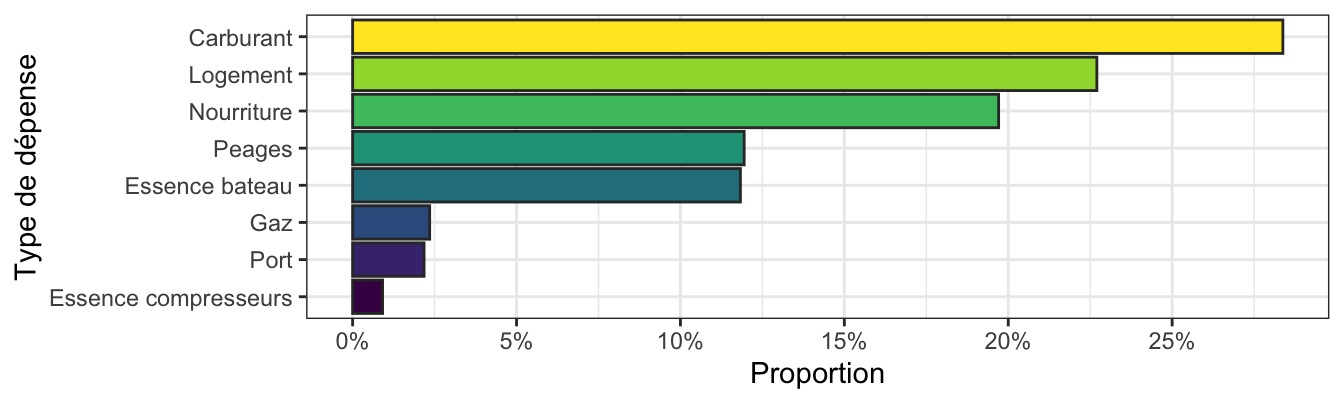
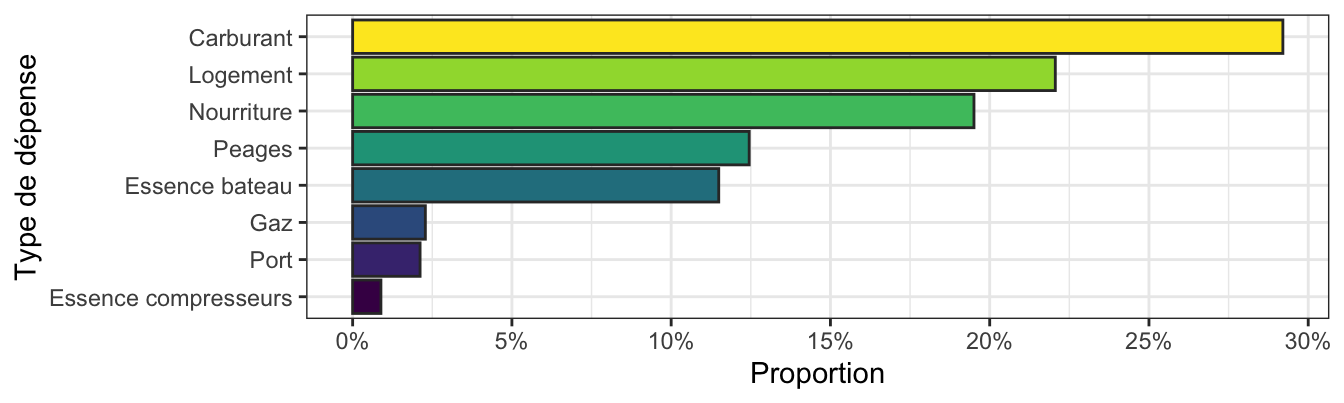
Corrections erreurs et oublis

diff --git a/docs/LaLonde2025.html b/docs/LaLonde2025.html
@@ -707,11 +707,11 @@ Table&nbsp;4: Dépenses hors plongées engagées par les participants à la sort
 <td style="text-align: right;">Benoît</td>
 <td style="text-align: right;">0€</td>
 <td style="text-align: right;">160.19€</td>
-<td style="text-align: right;">0.00€</td>
-<td style="text-align: right;">40.70€</td>
+<td style="text-align: right;">78.59€</td>
+<td style="text-align: right;">81.40€</td>
 <td style="text-align: right;">0€</td>
 <td style="text-align: right;">0€</td>
-<td style="text-align: right;">200.89€</td>
+<td style="text-align: right;">320.18€</td>
 </tr>
 <tr class="odd">
 <td style="text-align: right;">Calude</td>
@@ -736,12 +736,12 @@ Table&nbsp;4: Dépenses hors plongées engagées par les participants à la sort
 <tr class="odd">
 <td style="text-align: right;">Jérôme</td>
 <td style="text-align: right;">450€</td>
-<td style="text-align: right;">495.77€</td>
+<td style="text-align: right;">513.06€</td>
 <td style="text-align: right;">54.25€</td>
 <td style="text-align: right;">0.00€</td>
 <td style="text-align: right;">0€</td>
 <td style="text-align: right;">0€</td>
-<td style="text-align: right;">1,000.02€</td>
+<td style="text-align: right;">1,017.31€</td>
 </tr>
 <tr class="even">
 <td style="text-align: right;">Pierre</td>
@@ -786,12 +786,12 @@ Table&nbsp;4: Dépenses hors plongées engagées par les participants à la sort
 <tr class="even">
 <td style="text-align: right; font-weight: bold;">Total</td>
 <td style="text-align: right; font-weight: bold;">1,063€</td>
-<td style="text-align: right; font-weight: bold;">922.65€</td>
-<td style="text-align: right; font-weight: bold;">1,328.67€</td>
-<td style="text-align: right; font-weight: bold;">559.20€</td>
+<td style="text-align: right; font-weight: bold;">939.94€</td>
+<td style="text-align: right; font-weight: bold;">1,407.26€</td>
+<td style="text-align: right; font-weight: bold;">599.90€</td>
 <td style="text-align: right; font-weight: bold;">0€</td>
 <td style="text-align: right; font-weight: bold;">0€</td>
-<td style="text-align: right; font-weight: bold;">3,873.52€</td>
+<td style="text-align: right; font-weight: bold;">4,010.10€</td>
 </tr>
 </tbody>
 </table>
@@ -880,9 +880,9 @@ Table&nbsp;6: Coûts unitaires par personne
 <tbody>
 <tr class="odd">
 <td style="text-align: right;">15.19€</td>
-<td style="text-align: right;">4.39€</td>
-<td style="text-align: right;">132.87€</td>
-<td style="text-align: right;">55.92€</td>
+<td style="text-align: right;">4.48€</td>
+<td style="text-align: right;">140.73€</td>
+<td style="text-align: right;">59.99€</td>
 </tr>
 </tbody>
 </table>
@@ -947,51 +947,51 @@ Table&nbsp;7: Bilan des coûts par plongeur et par poste
 </tr>
 <tr class="odd">
 <td style="text-align: right;">Nourriture</td>
-<td style="text-align: right;">92.26€</td>
-<td style="text-align: right;">92.26€</td>
-<td style="text-align: right;">92.26€</td>
-<td style="text-align: right;">92.26€</td>
-<td style="text-align: right;">184.53€</td>
-<td style="text-align: right;">92.26€</td>
-<td style="text-align: right;">92.26€</td>
-<td style="text-align: right;">92.26€</td>
-<td style="text-align: right;">92.26€</td>
+<td style="text-align: right;">93.99€</td>
+<td style="text-align: right;">93.99€</td>
+<td style="text-align: right;">93.99€</td>
+<td style="text-align: right;">93.99€</td>
+<td style="text-align: right;">187.99€</td>
+<td style="text-align: right;">93.99€</td>
+<td style="text-align: right;">93.99€</td>
+<td style="text-align: right;">93.99€</td>
+<td style="text-align: right;">93.99€</td>
 </tr>
 <tr class="even">
 <td style="text-align: right;">Carburant</td>
-<td style="text-align: right;">132.87€</td>
-<td style="text-align: right;">132.87€</td>
-<td style="text-align: right;">132.87€</td>
-<td style="text-align: right;">132.87€</td>
-<td style="text-align: right;">265.73€</td>
-<td style="text-align: right;">132.87€</td>
-<td style="text-align: right;">132.87€</td>
-<td style="text-align: right;">132.87€</td>
-<td style="text-align: right;">132.87€</td>
+<td style="text-align: right;">140.73€</td>
+<td style="text-align: right;">140.73€</td>
+<td style="text-align: right;">140.73€</td>
+<td style="text-align: right;">140.73€</td>
+<td style="text-align: right;">281.45€</td>
+<td style="text-align: right;">140.73€</td>
+<td style="text-align: right;">140.73€</td>
+<td style="text-align: right;">140.73€</td>
+<td style="text-align: right;">140.73€</td>
 </tr>
 <tr class="odd">
 <td style="text-align: right; border-bottom: 1px solid;">Peage</td>
-<td style="text-align: right; border-bottom: 1px solid;">55.92€</td>
-<td style="text-align: right; border-bottom: 1px solid;">55.92€</td>
-<td style="text-align: right; border-bottom: 1px solid;">55.92€</td>
-<td style="text-align: right; border-bottom: 1px solid;">55.92€</td>
-<td style="text-align: right; border-bottom: 1px solid;">111.84€</td>
-<td style="text-align: right; border-bottom: 1px solid;">55.92€</td>
-<td style="text-align: right; border-bottom: 1px solid;">55.92€</td>
-<td style="text-align: right; border-bottom: 1px solid;">55.92€</td>
-<td style="text-align: right; border-bottom: 1px solid;">55.92€</td>
+<td style="text-align: right; border-bottom: 1px solid;">59.99€</td>
+<td style="text-align: right; border-bottom: 1px solid;">59.99€</td>
+<td style="text-align: right; border-bottom: 1px solid;">59.99€</td>
+<td style="text-align: right; border-bottom: 1px solid;">59.99€</td>
+<td style="text-align: right; border-bottom: 1px solid;">119.98€</td>
+<td style="text-align: right; border-bottom: 1px solid;">59.99€</td>
+<td style="text-align: right; border-bottom: 1px solid;">59.99€</td>
+<td style="text-align: right; border-bottom: 1px solid;">59.99€</td>
+<td style="text-align: right; border-bottom: 1px solid;">59.99€</td>
 </tr>
 <tr class="even">
 <td style="text-align: right; font-weight: bold;">Total</td>
-<td style="text-align: right; font-weight: bold;">483.59€</td>
-<td style="text-align: right; font-weight: bold;">499.63€</td>
-<td style="text-align: right; font-weight: bold;">499.63€</td>
-<td style="text-align: right; font-weight: bold;">499.63€</td>
-<td style="text-align: right; font-weight: bold;">886.98€</td>
-<td style="text-align: right; font-weight: bold;">499.63€</td>
-<td style="text-align: right; font-weight: bold;">499.63€</td>
-<td style="text-align: right; font-weight: bold;">590.35€</td>
-<td style="text-align: right; font-weight: bold;">590.35€</td>
+<td style="text-align: right; font-weight: bold;">497.25€</td>
+<td style="text-align: right; font-weight: bold;">513.29€</td>
+<td style="text-align: right; font-weight: bold;">513.29€</td>
+<td style="text-align: right; font-weight: bold;">513.29€</td>
+<td style="text-align: right; font-weight: bold;">914.30€</td>
+<td style="text-align: right; font-weight: bold;">513.29€</td>
+<td style="text-align: right; font-weight: bold;">513.29€</td>
+<td style="text-align: right; font-weight: bold;">604.01€</td>
+<td style="text-align: right; font-weight: bold;">604.01€</td>
 </tr>
 </tbody>
 </table>
@@ -1017,47 +1017,47 @@ Table&nbsp;7: Bilan des coûts par plongeur et par poste
 <tr class="odd">
 <td style="text-align: right;">Baptiste</td>
 <td style="text-align: right;">rembourse à l'AP</td>
-<td style="text-align: right;">133.91€</td>
+<td style="text-align: right;">147.57€</td>
+</tr>
+<tr class="even">
+<td style="text-align: right;">Geneviève</td>
+<td style="text-align: right;">rembourse à l'AP</td>
+<td style="text-align: right;">604.01€</td>
+</tr>
+<tr class="odd">
+<td style="text-align: right;">Marc</td>
+<td style="text-align: right;">rembourse à l'AP</td>
+<td style="text-align: right;">203.46€</td>
 </tr>
 <tr class="even">
 <td style="text-align: right;">Benoît</td>
-<td style="text-align: right;">rembourse à l'AP</td>
-<td style="text-align: right;">89.78€</td>
-</tr>
-<tr class="odd">
-<td style="text-align: right;">Geneviève</td>
-<td style="text-align: right;">rembourse à l'AP</td>
-<td style="text-align: right;">590.35€</td>
-</tr>
-<tr class="even">
-<td style="text-align: right;">Marc</td>
-<td style="text-align: right;">rembourse à l'AP</td>
-<td style="text-align: right;">189.80€</td>
+<td style="text-align: right;">se fait rembourser par l'AP</td>
+<td style="text-align: right;">15.85€</td>
 </tr>
 <tr class="odd">
 <td style="text-align: right;">Calude</td>
 <td style="text-align: right;">se fait rembourser par l'AP</td>
-<td style="text-align: right;">157.22€</td>
+<td style="text-align: right;">143.56€</td>
 </tr>
 <tr class="even">
 <td style="text-align: right;">Carole</td>
 <td style="text-align: right;">se fait rembourser par l'AP</td>
-<td style="text-align: right;">35.30€</td>
+<td style="text-align: right;">21.64€</td>
 </tr>
 <tr class="odd">
 <td style="text-align: right;">Jérôme</td>
 <td style="text-align: right;">se fait rembourser par l'AP</td>
-<td style="text-align: right;">155.80€</td>
+<td style="text-align: right;">145.77€</td>
 </tr>
 <tr class="even">
 <td style="text-align: right;">Pierre</td>
 <td style="text-align: right;">se fait rembourser par l'AP</td>
-<td style="text-align: right;">47.05€</td>
+<td style="text-align: right;">33.39€</td>
 </tr>
 <tr class="odd">
 <td style="text-align: right;">Thomas</td>
 <td style="text-align: right;">se fait rembourser par l'AP</td>
-<td style="text-align: right;">241.15€</td>
+<td style="text-align: right;">227.49€</td>
 </tr>
 </tbody>
 </table>
